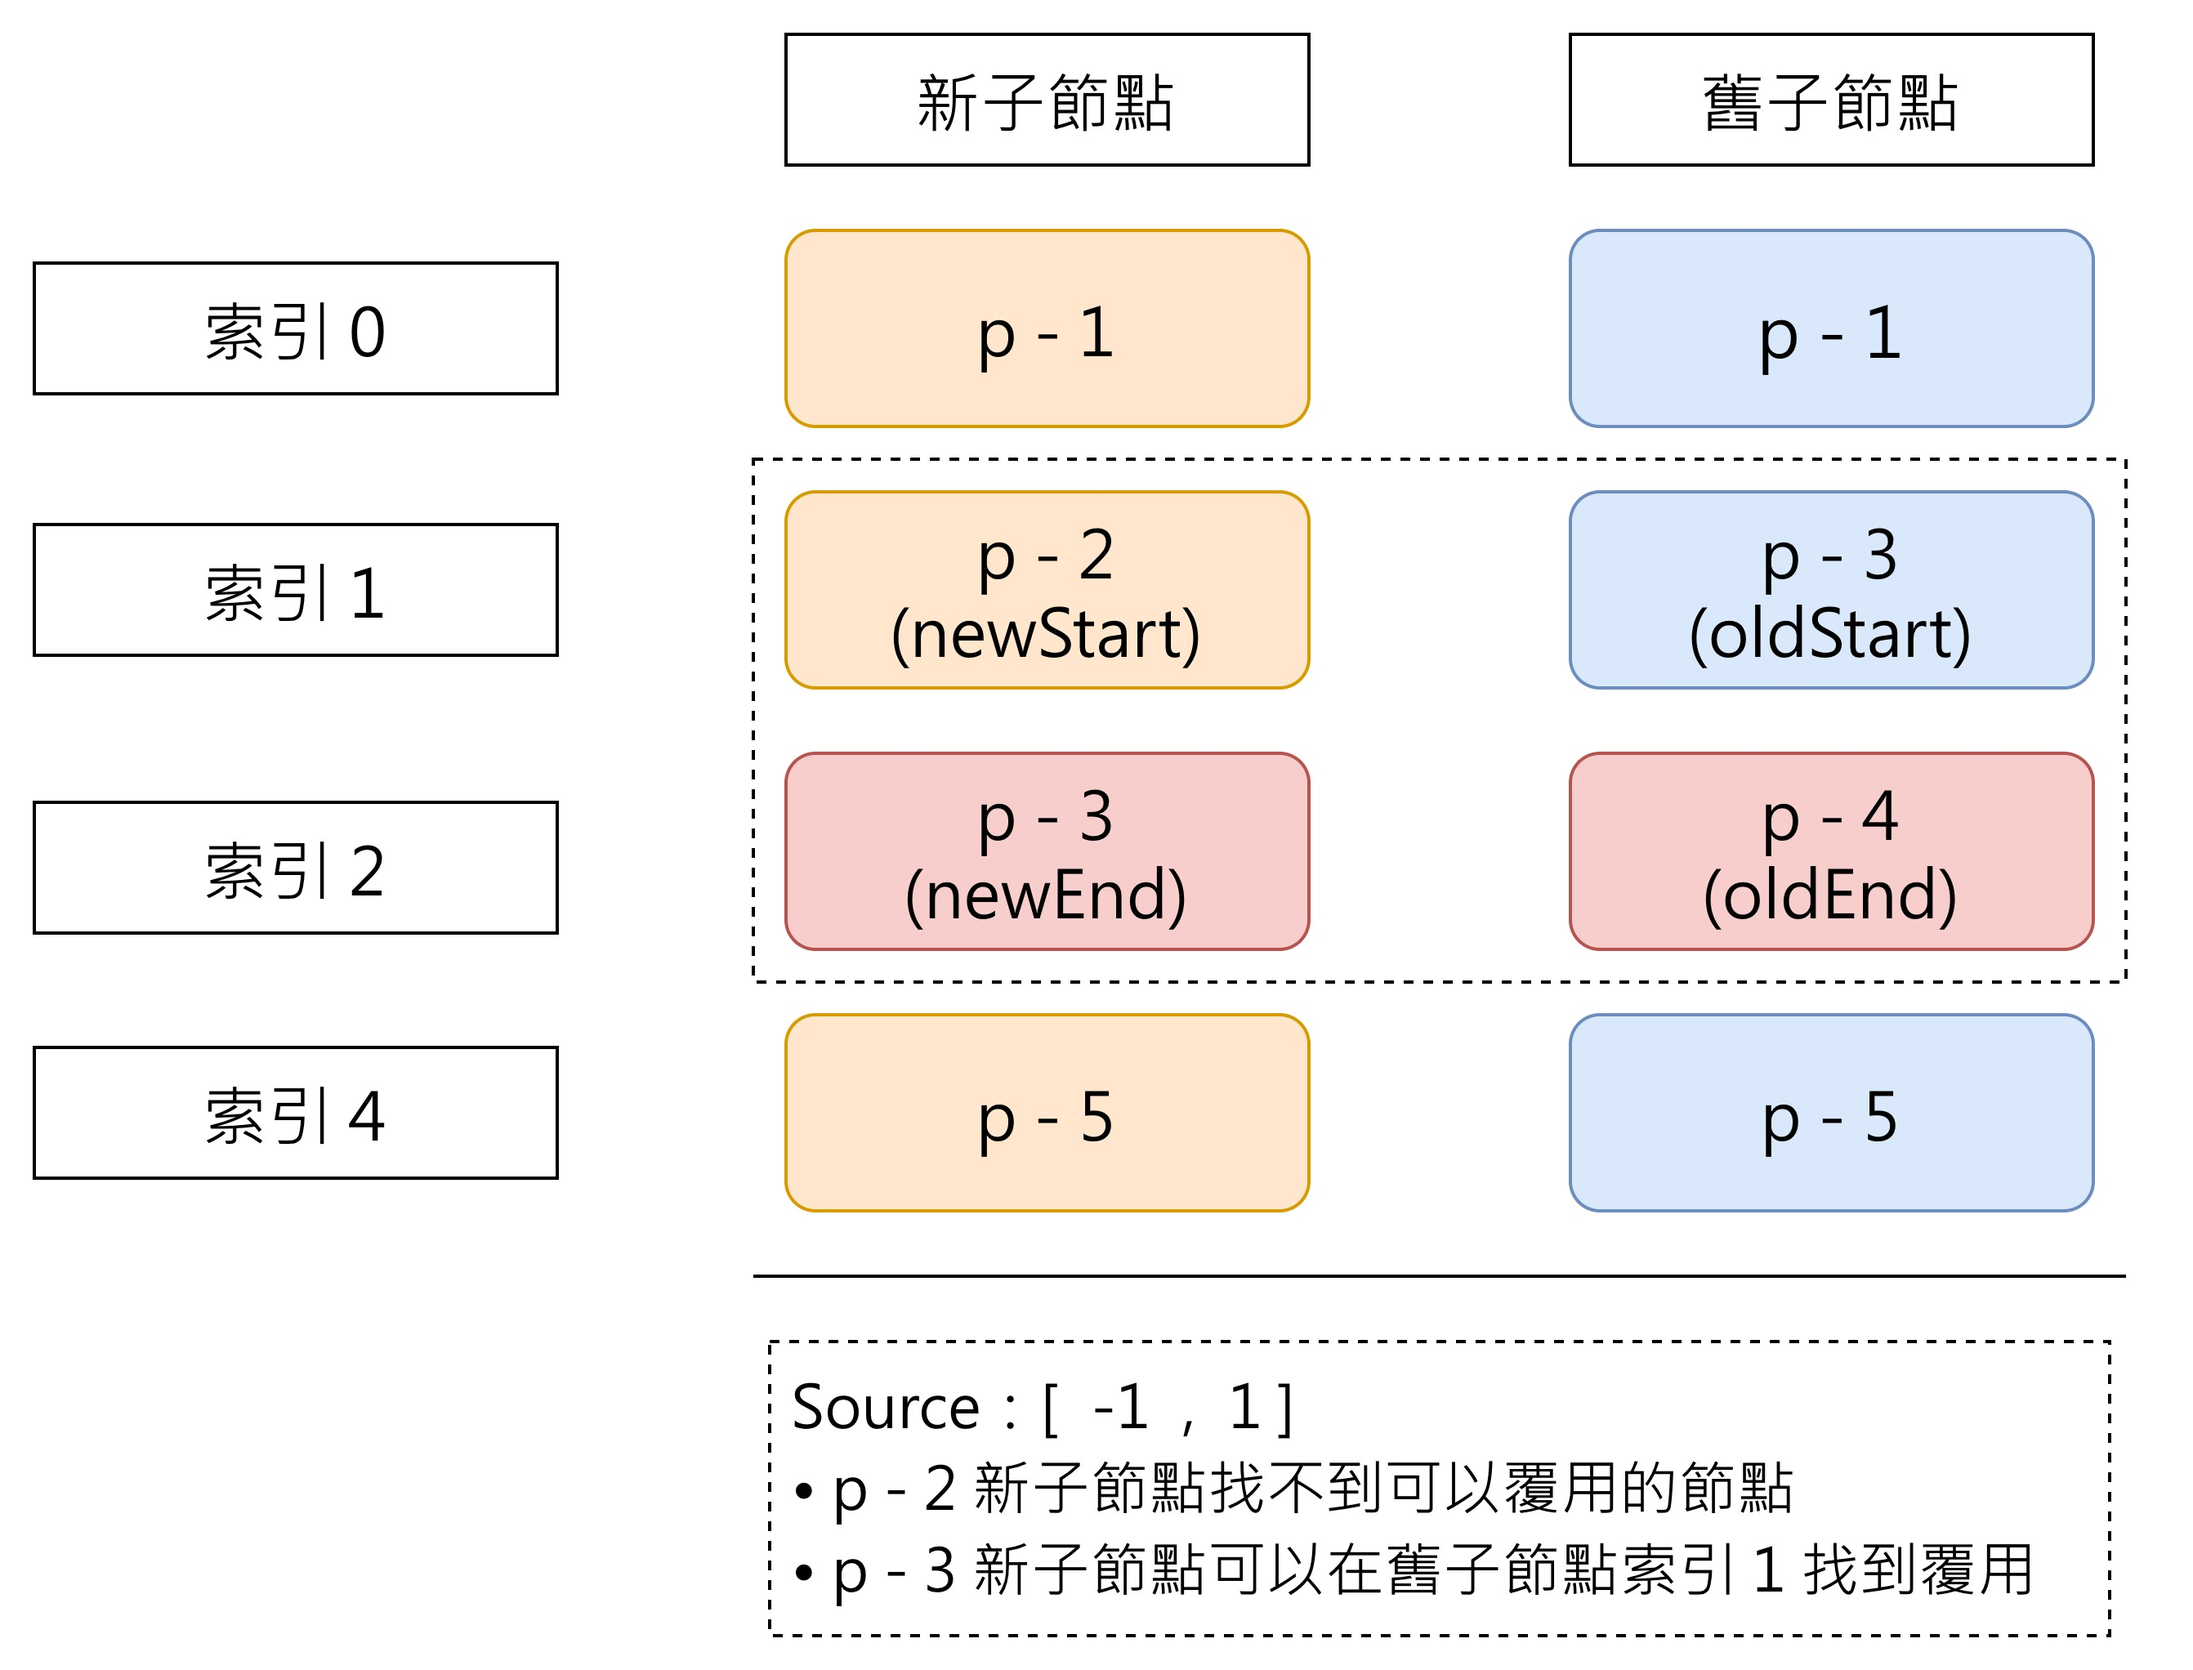
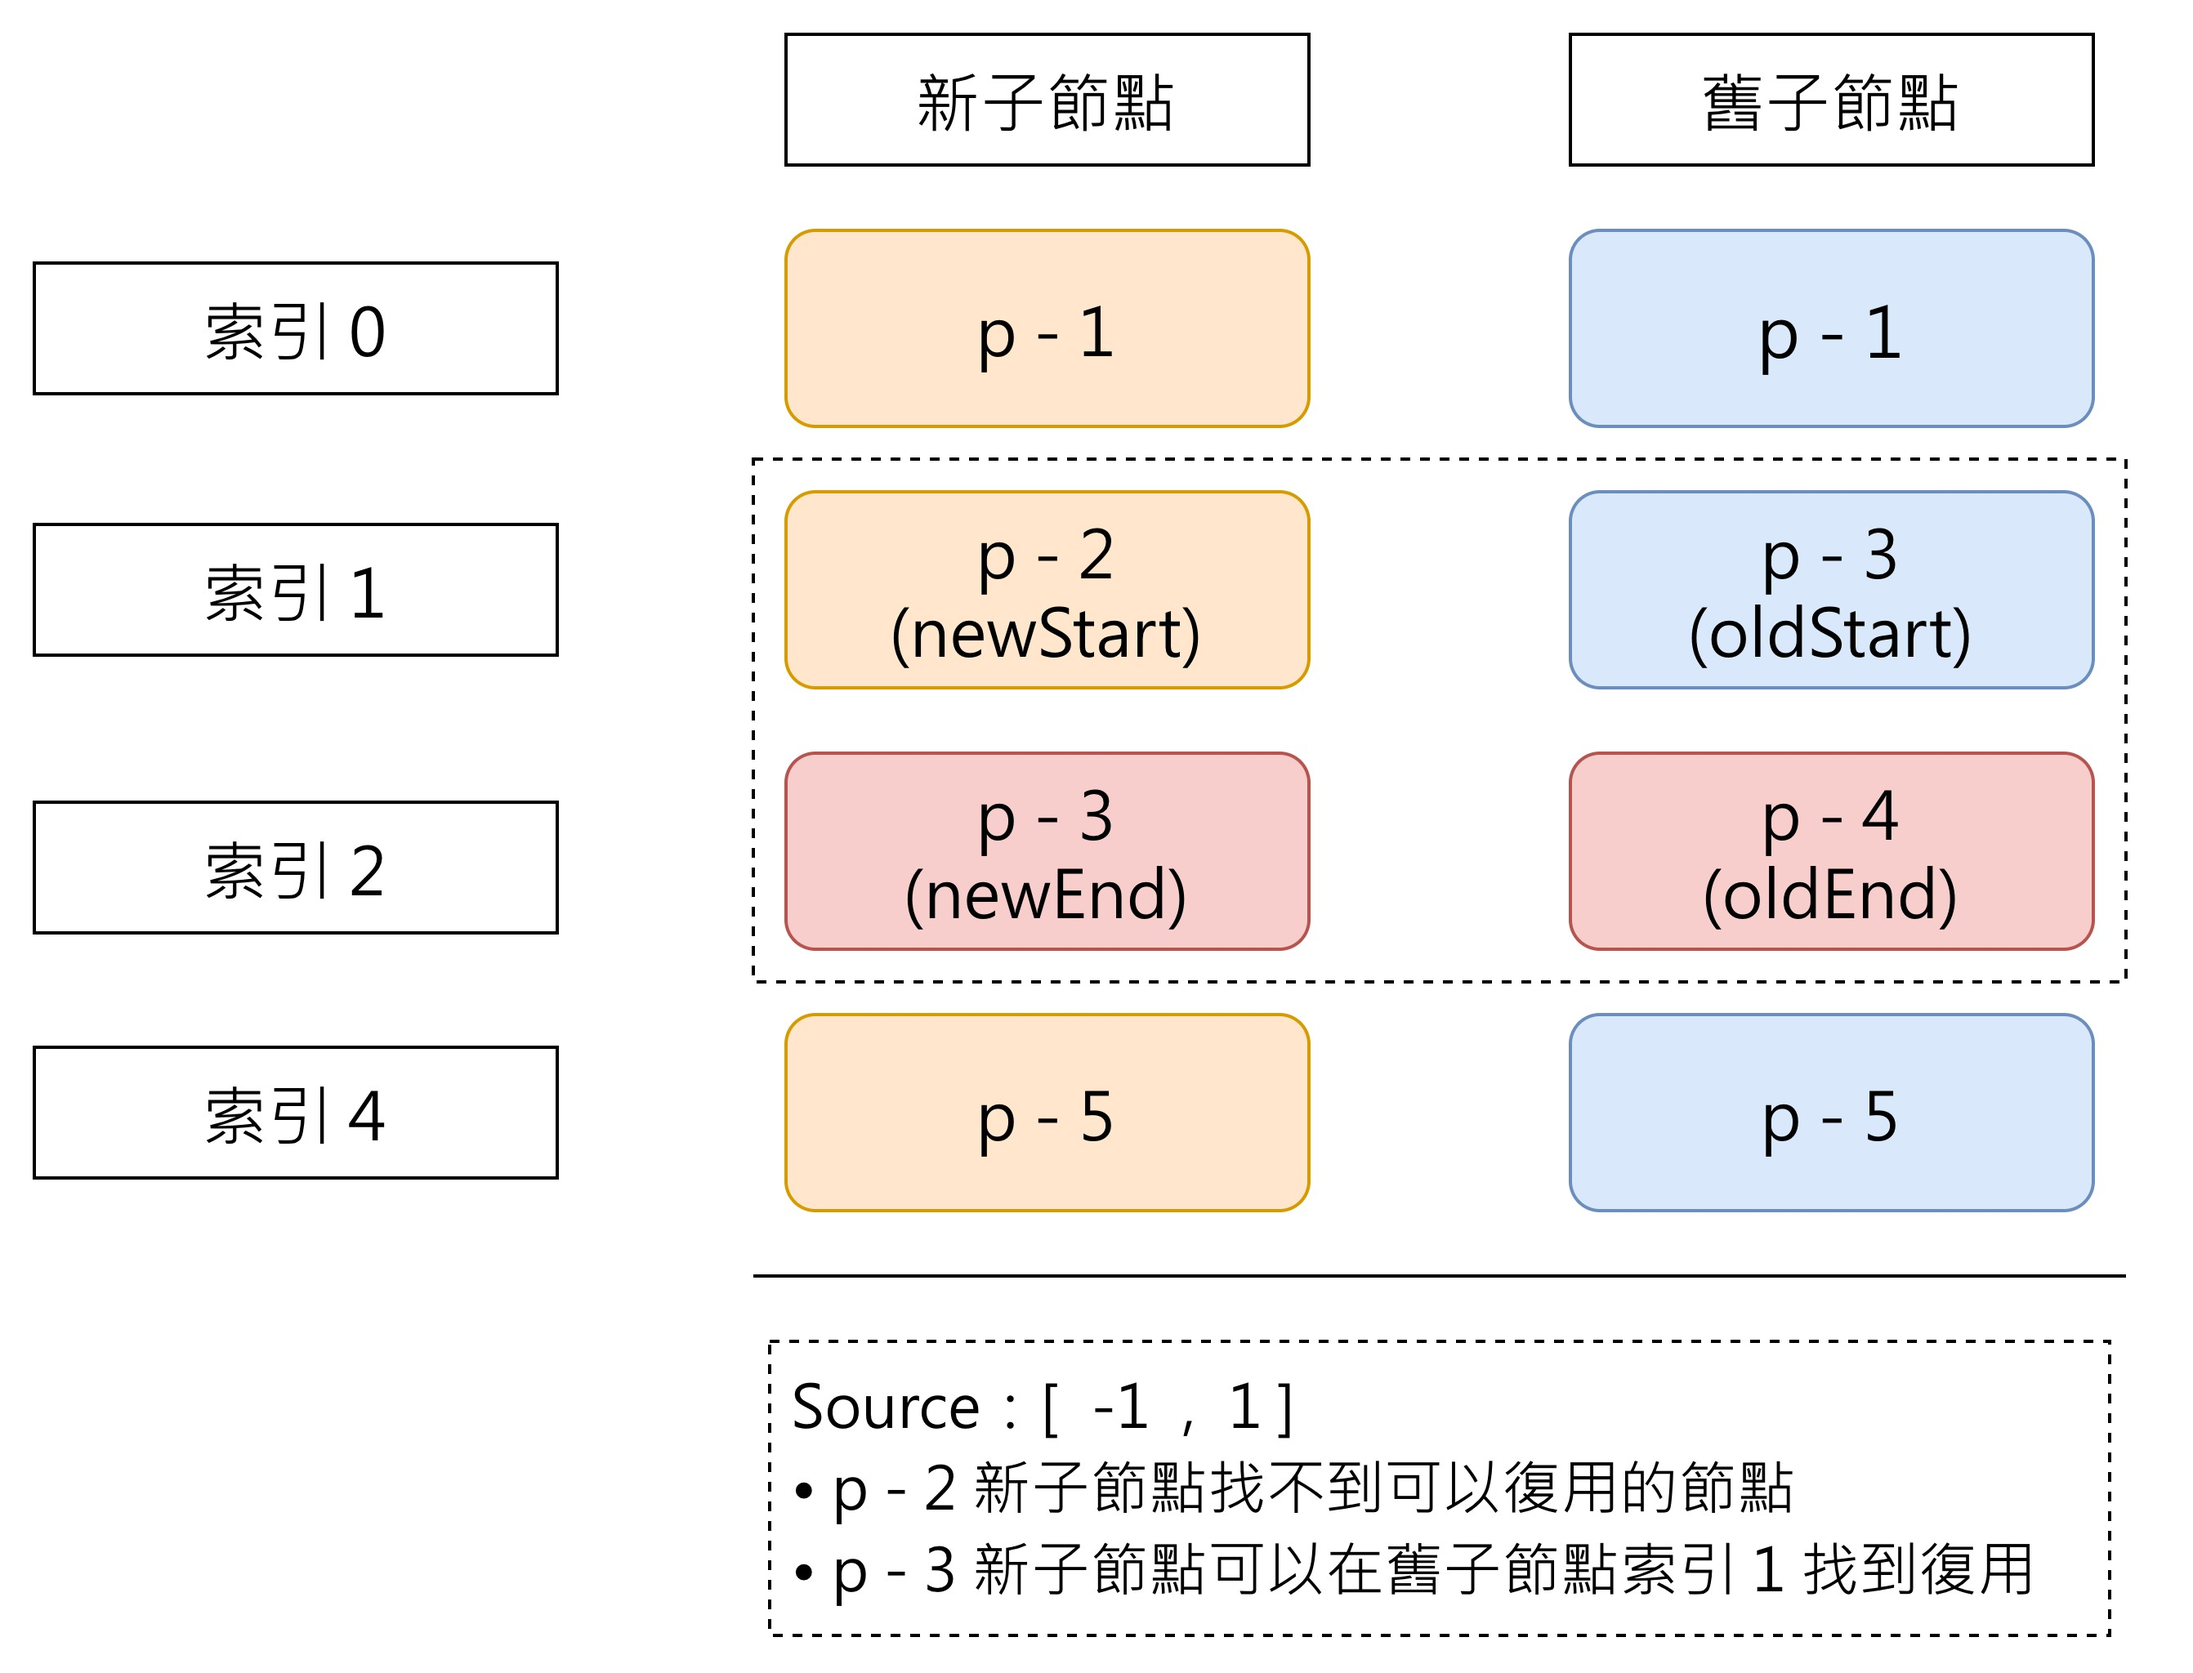
feat: 🎸 11-3-1 章節簡報完成

diff --git a/style.css b/style.css
@@ -30,6 +30,7 @@ p {
 }
 
 .slidev-layout h1 + p {
+  line-height: 1.75;
   opacity: 1;
   margin: 0;
 }

diff --git a/slides.md b/slides.md
@@ -40,8 +40,8 @@ welcome to Beijing, i hope you have a great travel.
 3. 純新增處理：處理只有新增節點的情況
 4. 純刪除處理：處理只有刪除節點的情況
 5. 複雜場景處理：當存在節點移動時，使用 diff 演算法
-    - 建立 key → index 映射表
-    - 遍歷舊節點建立 source 映射關係
+    - 建立 key → index 映射表，判斷節點是否可以復用
+    - 遍歷舊節點建立 source 映射關係 & 判斷節點是否需要移動
     - 掛載新節點 & 透過最長遞增子序列最小化移動操作
 
 </v-clicks>
@@ -313,24 +313,24 @@ function patchKeyedChildren(n1, n2, container) {
 <div class="flex overflow-hidden gap-4">
 
 ```ts
-  function patchKeyedChildren(n1, n2, container) {
-    // 省略前置節點及後置節點的處理
-		if (j > oldEnd && j <= newEnd) {
-			// 舊子節點比較完，僅需處理掛載節點
-		}else if(j > newEnd && j <= oldEnd){
-			// 新子節點比較完，僅需處理需卸載節點
-		}else{
-			// 中段 diff 比較處理區域
+function patchKeyedChildren(n1, n2, container) {
+  // 省略前置節點及後置節點的處理
+  if (j > oldEnd && j <= newEnd) {
+    // 舊子節點比較完，僅需處理掛載節點
+  }else if(j > newEnd && j <= oldEnd){
+    // 新子節點比較完，僅需處理需卸載節點
+  }else{
+      // 中段 diff 比較處理區域
 
       // == 新增 source 陣列建立映射關係(預設填滿 -1) ==
       const count = newEnd - j + 1
-		  const source = new Array(count)
-		  source.fill(-1)
-       // == 新增 source 陣列建立映射關係 ==
+      const source = new Array(count)
+      source.fill(-1)
+        // == 新增 source 陣列建立映射關係 ==
 
-		  const oldStart = j
-		  const newStart = j
-		
+      const oldStart = j
+      const newStart = j
+    
       const keyIndex = new Map()
 
       for (let i = newStart; i <= newEnd; i++) {
@@ -358,3 +358,241 @@ function patchKeyedChildren(n1, n2, container) {
 </div>
 
 > source 陣列：記錄新子節點對應的舊子節點索引位置（若無對應則為 -1）
+
+---
+
+# source 陣列應用 - 舊子節點卸載
+
+- **找不到對應新節點**：遍歷舊子節點時，若某個舊節點在新節點中找不到匹配的 key，表示該節點需要被卸載。
+- **已復用數量達到上限**：當已複用的節點數達到新子節點總數時，表示所有需要的節點都已找到，剩餘的舊節點都是多餘的，應直接卸載。
+
+<div class="flex overflow-hidden gap-4">
+
+```ts
+function patchKeyedChildren(n1, n2, container) {
+  // 省略前置節點及後置節點的處理
+  if (j > oldEnd && j <= newEnd) {
+    // 舊子節點比較完,僅需處理掛載節點
+  } else if (j > newEnd && j <= oldEnd) {
+    // 新子節點比較完,僅需處理需卸載節點
+  } else {
+    const count = newEnd - newStart + 1
+    const source = new Array(count)
+    source.fill(-1)
+    
+    const oldStart = j
+    const newStart = j
+
+    // ★ patched 用於記錄已複用的節點數量
+    let patched = 0
+    
+    const keyIndex = new Map()
+    for (let i = newStart; i <= newEnd; i++) {
+      keyIndex.set(newChildren[i].key, i)
+    }
+    
+    for (let i = oldStart; i <= oldEnd; i++) {
+      const oldVNode = oldChildren[i]
+      
+      // ★ 檢查：是否還有新節點需要匹配
+      if (patched < count) {
+        const k = keyIndex.get(oldVNode.key)
+        
+        if (k !== undefined) {
+          const newVNode = newChildren[k]
+          patch(oldVNode, newVNode, container)
+          patched++
+          source[k - newStart] = i
+        } else {
+          // ★ 舊節點在新節點中找不到對應，需卸載
+          unMount(oldVNode)
+        }
+      } else {
+        // ★ 所有新節點都已處理完畢，剩餘的舊節點為多餘節點，直接卸載
+        unMount(oldVNode)
+      }
+    }
+  }
+}
+```
+
+![source 陣列紀錄新舊節點位置映射關係](./public/11-2-2.jpg)
+
+</div>
+
+> - Source 陣列長度是中段區域新子節點的數量(newEnd - newStart + 1)
+> - Source 陣列紀錄的索引是中段區域的新子節點在舊子節點陣列中的位置(k - newStart)
+
+---
+
+#  中段 diff 處理流程 2 - 判斷節點是否需要移動
+
+在處理節點移動前，需要先判斷是否存在需要移動的節點。若存在，則使用「最長遞增子序列(LIS)」演算法來優化移動操作，減少 DOM 操作次數。
+
+<div class="flex overflow-hidden gap-4">
+
+```ts
+function patchKeyedChildren(n1, n2, container) {
+  // 省略前置節點及後置節點的處理
+  if (j > oldEnd && j <= newEnd) {
+    // 舊子節點比較完,僅需處理掛載節點
+  } else if (j > newEnd && j <= oldEnd) {
+    // 新子節點比較完,僅需處理需卸載節點
+  } else {
+    const count = newEnd - newStart + 1
+    const source = new Array(count)
+    source.fill(-1)
+    
+    const oldStart = j
+    const newStart = j
+    let moved = false
+    let pos = 0
+    let patched = 0
+    
+    const keyIndex = new Map()
+    for (let i = newStart; i <= newEnd; i++) {
+      keyIndex.set(newChildren[i].key, i)
+    }
+    
+    for (let i = oldStart; i <= oldEnd; i++) {
+      const oldVNode = oldChildren[i]
+      
+      if (patched < count) {
+        const k = keyIndex.get(oldVNode.key)
+        
+        if (typeof k !== undefined) {
+          const newVNode = newChildren[k]
+          patch(oldVNode, newVNode, container)
+          patched++
+          source[k - newStart] = i
+          
+          // ★ 判斷是否需要移動(跟簡單 diff 方法一樣，透過是否保持遞增性來判斷)
+          if (k < pos) {
+            moved = true
+          } else {
+            pos = k
+          }
+        } else {
+          unMount(oldVNode)
+        }
+      } else {
+        unMount(oldVNode)
+      }
+    }
+  }
+}
+```
+
+![source 陣列紀錄新舊節點位置映射關係](./public/11-2-2.jpg)
+
+</div>
+
+---
+
+# 中段 diff 處理流程到目前為止存在的問題
+
+前面已經完成舊子節點的處理：複用可複用的節點、卸載多餘的節點，並判斷是否需要移動
+
+但如果有全新的節點需要新增呢？
+
+**考慮以下情境：**
+
+
+<div class="flex overflow-hidden gap-4">
+
+
+![新子節點掛載的情形](./public/11-3-1.jpg)
+
+<div class="flex flex-col gap-3">
+
+  <v-click>  
+
+  **當前情況不符合以下兩個原則**
+  - j 沒有大於 newEnd，不屬於純刪除
+  - j 沒有大於 oldEnd，不屬於純新增
+
+  </v-click>
+
+  <v-click>  
+
+  **當我們處理完前面的步驟後：**
+  - p-1 節點在前置比對中複用，位置不變
+  - p-2 節點在中段處理中複用，索引遞增，不需移動
+
+  </v-click>
+
+  <v-click>  
+
+  **★ 但我們遺漏了 p-3 節點！**
+
+  </v-click>
+</div>
+
+</div>
+
+<style>
+
+.slidev-layout p:has(> img){
+  margin: auto;
+}
+
+</style>
+
+---
+
+# 中段 diff 處理流程 3 - 掛載新節點
+
+當遍歷新子節點的中段 diff 區域時，若 source 陣列中對應位置為 **-1**，代表該節點是全新的，需要執行掛載操作
+
+<div class="flex overflow-hidden gap-4">
+
+```ts
+function patchKeyedChildren(n1, n2, container) {
+  // 省略前置節點及後置節點的處理
+  if (j > oldEnd && j <= newEnd) {
+    // 舊子節點比較完,僅需處理掛載節點
+  } else if (j > newEnd && j <= oldEnd) {
+    // 新子節點比較完,僅需處理需卸載節點
+  } else {
+    const count = newEnd - newStart + 1
+    const source = new Array(count)
+    source.fill(-1)
+    
+    const oldStart = j
+    const newStart = j
+    let moved = false
+    let pos = 0
+    let patched = 0
+    
+    const keyIndex = new Map()
+    for (let i = newStart; i <= newEnd; i++) {
+      keyIndex.set(newChildren[i].key, i)
+    }
+    
+    // 遍歷舊節點建立 source 映射關係 & 判斷節點是否需要移動
+    for (let i = oldStart; i <= oldEnd; i++) {...}
+
+    // 從後向前遍歷（只需要一次循環）
+		for (let i = count - 1; i >= 0; i--) {
+		  const pos = newStart + i
+		  const newVNode = newChildren[pos]
+		  const nextPos = pos + 1
+		  const anchor = nextPos < newChildren.length 
+		    ? newChildren[nextPos].el 
+		    : null
+		  
+		  if (source[i] === -1) {
+		    // 新增節點
+		    patch(null, newVNode, container, anchor)
+		  }
+    }
+  }
+}
+```
+
+![新子節點掛載的情形](./public/11-3-1.jpg)
+
+</div>
+
+> anchor 是 null，將 p-3 插入新子節點陣列的最後面
+
